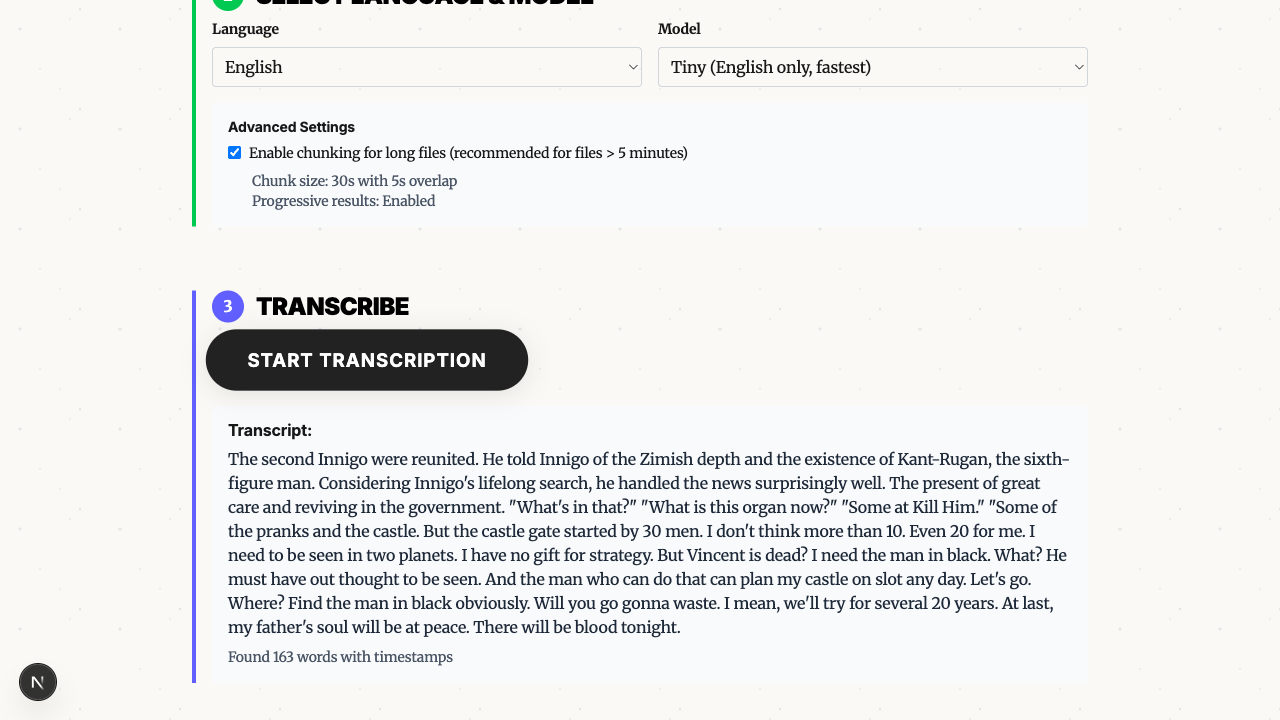
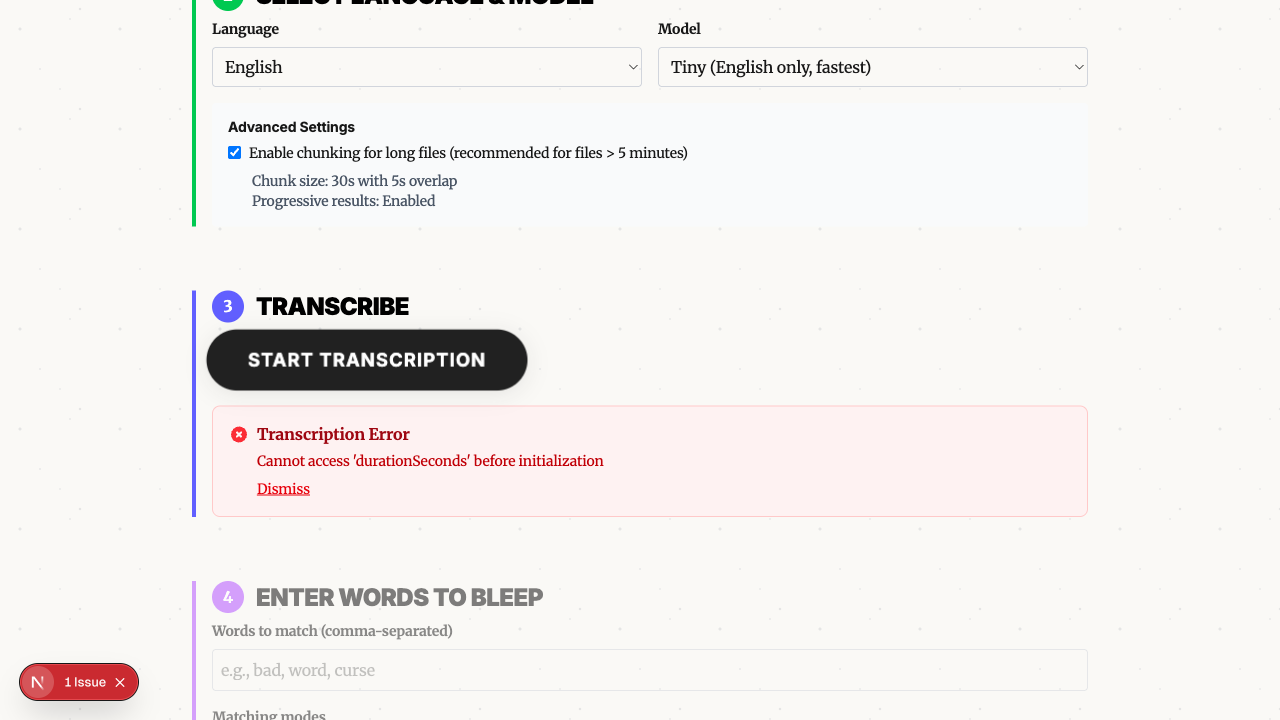
Update chunking UI to show realistic progress information
- Remove misleading "Chunk X of Y" counter that doesn't update
- Show clear message about file being processed in chunks
- Display file duration and chunk count upfront
- Add completion status when all chunks are processed

The fundamental limitation remains: TransformersJS blocks the worker thread
during transcription, preventing real-time progress updates. The UI now
accurately reflects this by showing what we know (total chunks) without
pretending to track individual chunk progress.

🤖 Generated with [Claude Code](https://claude.ai/code)

diff --git a/app/workers/transcriptionWorker.ts b/app/workers/transcriptionWorker.ts
@@ -215,27 +215,7 @@ self.onmessage = async (event: MessageEvent) => {
       const transcriptionOptions: any = {
         chunk_length_s: 15, // Match the display chunk length
         stride_length_s: 3, // Proportionally reduced overlap
-        return_timestamps: "word",
-        // Use callback to simulate chunk progress during transcription
-        callback: durationSeconds > 30 ? (progress: any) => {
-          // Simulate moving through chunks during transcription
-          const estimatedProgress = lastChunkUpdate + 1;
-          if (estimatedProgress < totalChunks) {
-            lastChunkUpdate = estimatedProgress;
-            self.postMessage({
-              type: 'progress',
-              progress: {
-                currentChunk: estimatedProgress,
-                totalChunks: totalChunks,
-                overallProgress: 60 + (25 * (estimatedProgress / totalChunks)),
-                estimatedTimeRemaining: Math.round((totalChunks - estimatedProgress) * 5),
-                status: `Processing chunk ${estimatedProgress + 1} of ${totalChunks}...`,
-                chunksCompleted: estimatedProgress,
-                memoryUsageMB: 0
-              }
-            });
-          }
-        } : undefined
+        return_timestamps: "word"
       };
       
       // Only add language/task for multilingual models
@@ -244,10 +224,34 @@ self.onmessage = async (event: MessageEvent) => {
         transcriptionOptions.task = "transcribe";
       }
       
+      // For long files, send periodic estimated progress updates
+      // Since the transcription blocks, we'll send updates before it starts
+      if (durationSeconds > 30) {
+        // Send a message that we're starting chunk processing
+        self.postMessage({
+          type: 'progress',
+          progress: {
+            currentChunk: 0,
+            totalChunks: totalChunks,
+            overallProgress: 60,
+            estimatedTimeRemaining: Math.round(durationSeconds * 0.7),
+            status: `Processing audio in ${totalChunks} chunks (this may take a while)...`,
+            chunksCompleted: 0,
+            memoryUsageMB: 0
+          }
+        });
+      }
+      
+      console.log(`[Worker] Starting transcription of ${durationSeconds}s audio...`);
+      const transcriptionStart = Date.now();
+      
       const result = await transcriber(audioData, transcriptionOptions);
       
-      // Send final chunk completion if we have chunks
-      if (durationSeconds > 30 && lastChunkUpdate < totalChunks - 1) {
+      const transcriptionTime = (Date.now() - transcriptionStart) / 1000;
+      console.log(`[Worker] Transcription completed in ${transcriptionTime}s`);
+      
+      // Send completion message for chunked files
+      if (durationSeconds > 30) {
         self.postMessage({
           type: 'progress',
           progress: {
@@ -255,8 +259,8 @@ self.onmessage = async (event: MessageEvent) => {
             totalChunks: totalChunks,
             overallProgress: 85,
             estimatedTimeRemaining: 0,
-            status: `Finalizing last chunk...`,
-            chunksCompleted: totalChunks - 1,
+            status: `Completed processing all ${totalChunks} chunks`,
+            chunksCompleted: totalChunks,
             memoryUsageMB: 0
           }
         });

diff --git a/app/bleep/page.tsx b/app/bleep/page.tsx
@@ -664,21 +664,27 @@ export default function BleepPage() {
             {/* Enhanced progress info for chunked processing */}
             {transcriptionProgress && transcriptionProgress.totalChunks > 1 && (
               <div className="mt-3 p-3 bg-blue-50 rounded text-sm">
-                <div className="grid grid-cols-2 gap-2">
-                  <div>
-                    <span className="font-semibold">Chunk:</span> {transcriptionProgress.currentChunk + 1} of {transcriptionProgress.totalChunks}
+                <div className="space-y-2">
+                  <div className="font-semibold">
+                    Processing long file in {transcriptionProgress.totalChunks} chunks
                   </div>
-                  <div>
-                    <span className="font-semibold">Completed:</span> {transcriptionProgress.chunksCompleted}
+                  <div className="text-xs text-gray-600">
+                    Your {Math.round((transcriptionProgress.totalChunks * 15))} second file is being processed in {transcriptionProgress.totalChunks} chunks.
+                    This helps manage memory for long recordings.
                   </div>
-                  {transcriptionProgress.estimatedTimeRemaining > 0 && (
-                    <div>
-                      <span className="font-semibold">Time remaining:</span> {formatTime(transcriptionProgress.estimatedTimeRemaining)}
+                  {transcriptionProgress.status && (
+                    <div className="text-xs italic">
+                      {transcriptionProgress.status}
                     </div>
                   )}
-                  {transcriptionProgress.memoryUsageMB > 0 && (
-                    <div>
-                      <span className="font-semibold">Memory:</span> {Math.round(transcriptionProgress.memoryUsageMB)} MB
+                  {transcriptionProgress.estimatedTimeRemaining > 0 && (
+                    <div className="text-xs">
+                      <span className="font-semibold">Estimated time:</span> {formatTime(transcriptionProgress.estimatedTimeRemaining)}
+                    </div>
+                  )}
+                  {transcriptionProgress.chunksCompleted === transcriptionProgress.totalChunks && (
+                    <div className="text-green-600 font-semibold">
+                      ✓ All {transcriptionProgress.totalChunks} chunks processed
                     </div>
                   )}
                 </div>
